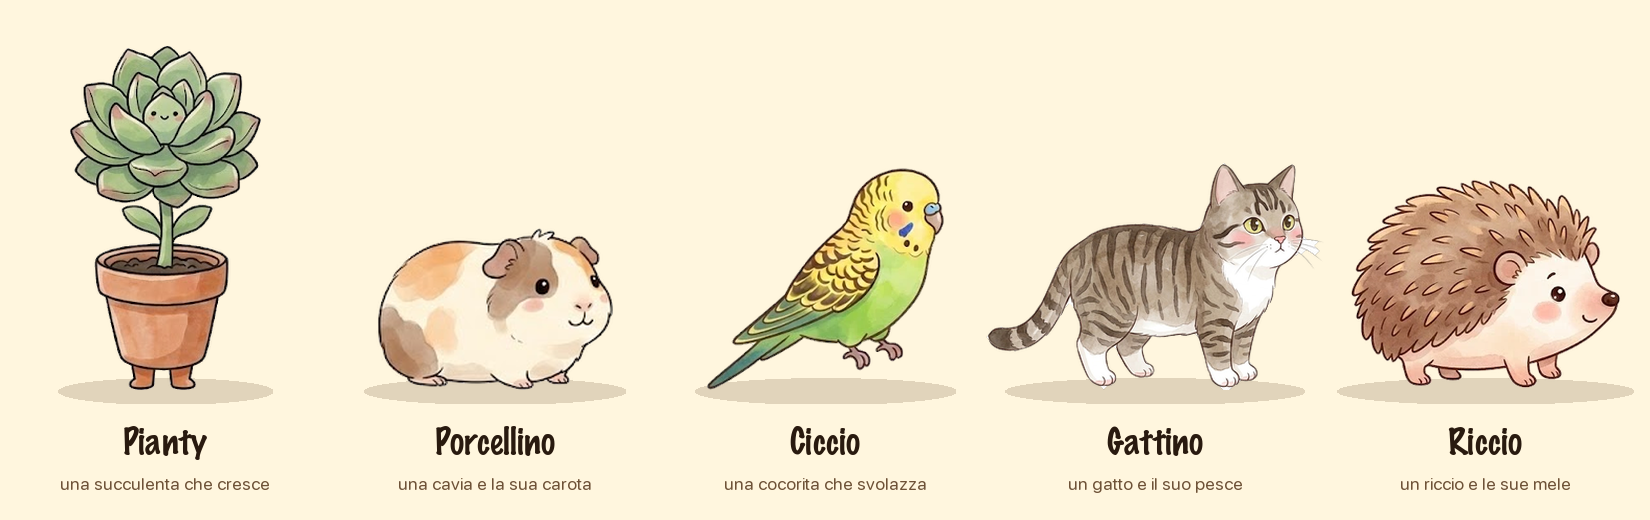
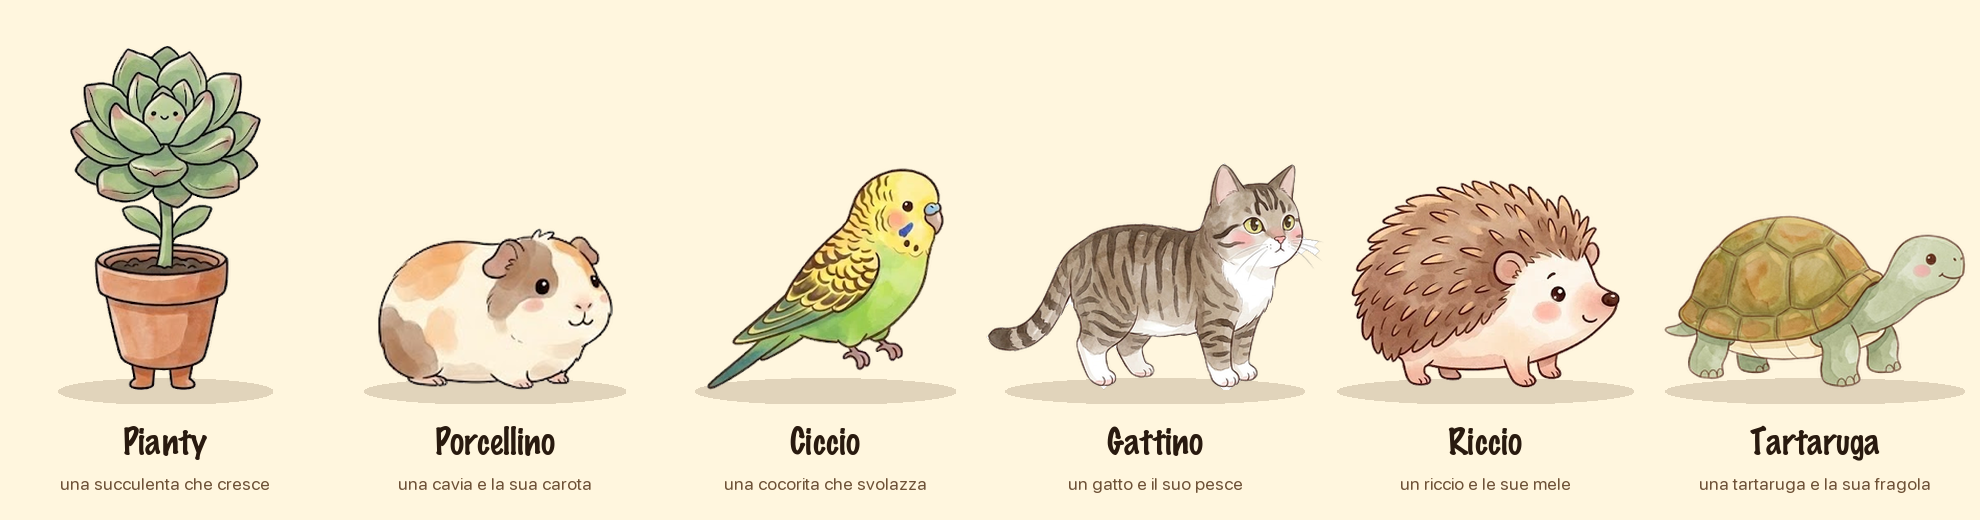
README e guida: le immagini nuove (Tartaruga, statistiche, sei isole, album, giro guidato)
Compagni e frasi con la Tartaruga; le statistiche di oggi, settimana, mese e
anno disegnate dalla finestra vera (nuovo banco render-statistiche, con dati
inventati); il mondo di sei isole; l'album con le figurine nuove e la sezione
Scene; il giro guidato al passo del giardino (modo «giro» del banco della
scheda). Nella guida l'elenco dei compagni e le soglie di sblocco aggiornati.
Tolta statistiche-sessioni.png, non più usata.

diff --git a/tools/banchi/render-statistiche/main.swift b/tools/banchi/render-statistiche/main.swift
@@ -1,0 +1,86 @@
+// Disegna fuori schermo la finestra delle statistiche vera dell'app (DashboardView) in un PNG, con un anno di sessioni inventate in una cartella
+// temporanea (i dati veri non si toccano), per le immagini della guida e del README.
+// Si lancia da tools/banchi/render-statistiche.sh: render <cartella dei dati> <file.png> <oggi|settimana|mese|anno> [materia scelta] [x y del mouse]
+import AppKit
+
+@main
+struct Render {
+    static func main() {
+        _ = NSApplication.shared
+        let args = CommandLine.arguments
+        let data = URL(fileURLWithPath: args[1])
+        let out = args[2]
+        let kind: PeriodKind = ["oggi": .day, "settimana": .week, "mese": .month, "anno": .year][args[3]] ?? .week
+        let chosen = args.count > 4 && !args[4].isEmpty ? args[4] : nil
+        let mouse = args.count > 6 ? NSPoint(x: Double(args[5])!, y: Double(args[6])!) : nil
+
+        var calendar = StudyPeriod.calendar()
+        calendar.timeZone = .current
+        // «adesso»: un venerdì sera di novembre
+        let now = calendar.date(from: DateComponents(year: 2026, month: 11, day: 13, hour: 19, minute: 30))!
+        let log = SessionLog(directory: data, now: { now })
+        if log.sessions.isEmpty { fill(log, until: now, calendar: calendar) }
+
+        let view = DashboardView(log: log, now: { now })
+        view.select(kind)
+        if let chosen { view.chooseSubject(chosen) }
+        if let mouse { view.pageHovered(at: mouse) }
+        view.layoutSubtreeIfNeeded()
+        let rep = view.bitmapImageRepForCachingDisplay(in: view.bounds)!
+        view.cacheDisplay(in: view.bounds, to: rep)
+        try! rep.representation(using: .png, properties: [:])!.write(to: URL(fileURLWithPath: out))
+        print(args[3], view.bounds.size, rep.pixelsWide, "×", rep.pixelsHigh)
+    }
+
+    /// Un anno di studio inventato, sempre uguale (un generatore con il seme fisso): più fitto in autunno, con qualche giorno di vacanza.
+    static func fill(_ log: SessionLog, until now: Date, calendar: Calendar) {
+        var rng = Seeded(seed: 7)
+        let subjects = ["Anatomia", "Fisiologia", "Biochimica", "Istologia"]
+        let weights = [5, 4, 3, 1]
+        let today = calendar.startOfDay(for: now)
+        let first = calendar.date(from: DateComponents(year: 2026, month: 1, day: 7))!
+        var day = first
+        while day <= today {
+            let month = calendar.component(.month, from: day)
+            let weekday = calendar.component(.weekday, from: day)   // 1 = domenica
+            let isToday = day == today
+            let busy = month >= 9 ? 0.86 : (month == 8 ? 0.15 : 0.62)
+            let weekend = weekday == 1 || weekday == 7
+            if isToday || Double.random(in: 0..<1, using: &rng) < (weekend ? busy * 0.35 : busy) {
+                let count = isToday ? 3 : Int.random(in: 1...(month >= 9 ? 5 : 3), using: &rng)
+                var start = calendar.date(byAdding: .minute, value: Int.random(in: 8 * 60 + 30...10 * 60, using: &rng), to: day)!
+                for _ in 0..<count {
+                    let roll = Int.random(in: 0..<weights.reduce(0, +), using: &rng)
+                    var acc = 0
+                    let subject = subjects[weights.firstIndex { acc += $0; return roll < acc }!]
+                    let planned = [30, 50, 50][Int.random(in: 0..<3, using: &rng)]
+                    let completed = Double.random(in: 0..<1, using: &rng) < 0.9
+                    let seconds = completed ? planned * 60 : Int.random(in: 10...(planned - 5), using: &rng) * 60
+                    if isToday && start.addingTimeInterval(Double(seconds)) > now { break }
+                    if let session = log.add(start: start, seconds: seconds, plannedMinutes: planned, completed: completed, subject: subject) {
+                        let hour = calendar.component(.hour, from: start)
+                        let good = subject == "Anatomia" || hour < 13 ? 0.75 : 0.45
+                        let r = Double.random(in: 0..<1, using: &rng)
+                        let rating: FocusRating? = r < good ? .good : (r < good + 0.2 ? .soso : (r < 0.97 ? .poor : nil))
+                        log.setReflection(id: session.id, rating: rating, note: nil)
+                    }
+                    start = start.addingTimeInterval(Double(seconds + Int.random(in: 10...70, using: &rng) * 60))
+                }
+            }
+            day = calendar.date(byAdding: .day, value: 1, to: day)!
+        }
+    }
+}
+
+/// Un generatore pseudo-casuale con il seme fisso (SplitMix64): le immagini vengono uguali ogni volta.
+struct Seeded: RandomNumberGenerator {
+    var state: UInt64
+    init(seed: UInt64) { state = seed }
+    mutating func next() -> UInt64 {
+        state &+= 0x9E37_79B9_7F4A_7C15
+        var z = state
+        z = (z ^ (z >> 30)) &* 0xBF58_476D_1CE4_E5B9
+        z = (z ^ (z >> 27)) &* 0x94D0_49BB_1331_11EB
+        return z ^ (z >> 31)
+    }
+}

diff --git a/tools/banchi/render-scheda/main.swift b/tools/banchi/render-scheda/main.swift
@@ -1,5 +1,6 @@
 // Disegna fuori schermo la scheda del menu vera dell'app (MenuCardView) in un PNG, con dati inventati, per le immagini del README.
-// Si lancia da tools/banchi/render-scheda.sh: render <file.png> [riposo|focus] [compagno]
+// Si lancia da tools/banchi/render-scheda.sh: render <file.png> [riposo|focus|giro] [compagno]
+// «giro»: la scheda a riposo con il velo del giro guidato sul giardino, e accanto (giro-fumetto.png) il fumetto di quel passo; in giro.txt la parte illuminata.
 import AppKit
 
 @main
@@ -34,6 +35,25 @@ struct Render {
         view.layoutSubtreeIfNeeded()
         let size = view.frame.size
         view.frame = NSRect(origin: .zero, size: size)
+        let touring = args.count > 2 && args[2] == "giro"
+        if touring, let index = GuidedTour.steps.firstIndex(where: { $0.section == .garden }) {
+            view.layoutSubtreeIfNeeded()
+            view.setSpotlight(.garden, active: true)
+            let step = GuidedTour.steps[index]
+            let tip = TourTipView(text: step.text, count: "\(index + 1) di \(GuidedTour.steps.count)", next: "Avanti")
+            tip.tailOnRight = true
+            tip.tailY = 30
+            tip.layoutSubtreeIfNeeded()
+            tip.frame = NSRect(origin: .zero, size: tip.fittingSize)
+            tip.layoutSubtreeIfNeeded()
+            let folder = (out as NSString).deletingLastPathComponent
+            let tipRep = tip.bitmapImageRepForCachingDisplay(in: tip.bounds)!
+            tip.cacheDisplay(in: tip.bounds, to: tipRep)
+            try! tipRep.representation(using: .png, properties: [:])!.write(to: URL(fileURLWithPath: folder + "/giro-fumetto.png"))
+            let spot = view.sections[.garden] ?? .zero
+            try! "\(spot.minX) \(spot.minY) \(spot.width) \(spot.height)\n".write(toFile: folder + "/giro.txt", atomically: true, encoding: .utf8)
+            print("giro: fumetto", tip.frame.size, "giardino", spot)
+        }
         let rep = view.bitmapImageRepForCachingDisplay(in: view.bounds)!
         view.cacheDisplay(in: view.bounds, to: rep)
         try! rep.representation(using: .png, properties: [:])!.write(to: URL(fileURLWithPath: out))

diff --git a/tools/compone_readme.py b/tools/compone_readme.py
@@ -1,5 +1,5 @@
 #!/usr/bin/env python3
-"""Compone le immagini del README fatte con i disegni dei compagni e con i fumetti veri dell'app: docs/images/scrivania.png, compagni.png, frasi.png e crescita.png
+"""Compone le immagini del README fatte con i disegni dei compagni e con i fumetti veri dell'app: docs/images/scrivania.png, menu-schermata.png, giro.png, compagni.png, frasi.png e crescita.png
 
     tools/compone-readme.sh        (disegna prima i fumetti e l'orologio dell'app in build/readme/, poi chiama questo script)
     python3 tools/compone_readme.py   (solo la composizione, se i fumetti in build/readme/ ci sono già)
@@ -37,6 +37,7 @@ PETS = [
     ("Ciccio", "assets/ciccio/frame1.png", 112 / 321, "una cocorita che svolazza"),
     ("Gattino", "assets/gattino/frame1.png", 144 / 360, "un gatto e il suo pesce"),
     ("Riccio", "assets/riccio/frame1.png", 154 / 405, "un riccio e le sue mele"),
+    ("Tartaruga", "assets/tartaruga/frame1.png", 144 / 328, "una tartaruga e la sua fragola"),
 ]
 
 
@@ -280,11 +281,64 @@ def menu_schermata():
     print("menu-schermata.png", scene.size)
 
 
+def giro():
+    """Il giro guidato al passo del giardino, come sullo schermo: la scheda con il velo tranne il giardino (tools/banchi/render-scheda.sh, modo «giro»),
+    il fumetto del giro a sinistra con la punta sul giardino e sopra l'immagine di com'è fatto (assets/benvenuto/giardino.png), come in GuidedTour.show."""
+    from PIL import ImageFilter, ImageOps
+    W, H = 1200, 960
+    ppt = 1.1
+    scene = desk_scene(W, H).convert("RGBA")
+    cat = Image.open("assets/gattino/frame1.png").convert("RGBA")
+    k = (144 / 360) * ppt
+    cat = ImageOps.mirror(cat.resize((round(cat.width * k), round(cat.height * k)), Image.LANCZOS))
+    pet_left, window_bottom = W - 70 - cat.width, 876
+    ground = round(0.0949 * 274 * k)
+    glow = Image.new("RGBA", (cat.width + 160, 120), (0, 0, 0, 0))
+    ImageDraw.Draw(glow).ellipse((80, 34, 80 + cat.width - 30, 62), fill=(60, 40, 40, 70))
+    scene.alpha_composite(glow.filter(ImageFilter.GaussianBlur(5)), (pet_left - 80 + 12, window_bottom - ground - 46))
+    scene.alpha_composite(cat, (pet_left, window_bottom - cat.height))
+    card = Image.open("build/readme/scheda-giro.png").convert("RGBA")
+    card = card.resize((round(card.width * ppt / 2), round(card.height * ppt / 2)), Image.LANCZOS)
+    x, y = pet_left - round(10 * ppt) - card.width, window_bottom - card.height
+    shadow = Image.new("RGBA", scene.size, (0, 0, 0, 0))
+    ImageDraw.Draw(shadow).rounded_rectangle((x, y + 14, x + card.width, y + card.height + 14), 28, fill=(60, 40, 40, 110))
+    scene.alpha_composite(shadow.filter(ImageFilter.GaussianBlur(20)))
+    scene.alpha_composite(card, (x, y))
+    # il fumetto: a sinistra della scheda (4 punti), con la punta a metà del giardino (30 punti sotto il suo bordo alto)
+    spot_y, spot_h = [float(v) for v in open("build/readme/giro.txt").read().split()][1::2]
+    tip = Image.open("build/readme/giro-fumetto.png").convert("RGBA")
+    tip = tip.resize((round(tip.width * ppt / 2), round(tip.height * ppt / 2)), Image.LANCZOS)
+    tip_x = x - round(4 * ppt) - tip.width
+    tip_y = round(y + (spot_y + spot_h / 2 - 30) * ppt)
+    tip_shadow = Image.new("RGBA", scene.size, (0, 0, 0, 0))
+    ImageDraw.Draw(tip_shadow).rounded_rectangle((tip_x + 4, tip_y + 8, tip_x + tip.width - 14, tip_y + tip.height + 6), 18, fill=(40, 30, 20, 70))
+    scene.alpha_composite(tip_shadow.filter(ImageFilter.GaussianBlur(10)))
+    scene.alpha_composite(tip, (tip_x, tip_y))
+    # l'immagine di com'è fatto: sopra il fumetto, larga al massimo 420 punti, angoli tondi e ombra
+    peek = Image.open("assets/benvenuto/giardino.png").convert("RGBA")
+    width = round(min(420 * ppt, tip_x + tip.width - 10 * ppt - 8 * ppt))
+    peek = peek.resize((width, round(width * peek.height / peek.width)), Image.LANCZOS)
+    mask = Image.new("L", peek.size, 0)
+    ImageDraw.Draw(mask).rounded_rectangle((0, 0, peek.width - 1, peek.height - 1), round(14 * ppt), fill=255)
+    peek.putalpha(mask)
+    px = max(tip_x + tip.width - round(10 * ppt) - peek.width, round(8 * ppt))
+    py = tip_y - round(12 * ppt) - peek.height
+    if py < 40:
+        py = tip_y + tip.height + round(12 * ppt)
+    peek_shadow = Image.new("RGBA", scene.size, (0, 0, 0, 0))
+    ImageDraw.Draw(peek_shadow).rounded_rectangle((px, py + 10, px + peek.width, py + peek.height + 10), 18, fill=(40, 30, 20, 90))
+    scene.alpha_composite(peek_shadow.filter(ImageFilter.GaussianBlur(16)))
+    scene.alpha_composite(peek, (px, py))
+    scene.convert("RGB").save("docs/images/giro.png", optimize=True)
+    print("giro.png", scene.size)
+
+
 FRASI = [
     ("Pianty", "assets/pianty/stage5_1.png", 84 / 208, 2),
     ("Porcellino", "assets/porcellino/frame1.png", 118 / 236, 3),
     ("Gattino", "assets/gattino/frame1.png", 144 / 360, 4),
     ("Riccio", "assets/riccio/frame1.png", 154 / 405, 5),
+    ("Tartaruga", "assets/tartaruga/frame1.png", 144 / 328, 6),
 ]
 
 
@@ -316,9 +370,36 @@ def frasi():
     print("frasi.png", sheet.size)
 
 
+def finestra_statistiche(name):
+    """La finestra delle statistiche disegnata da tools/banchi/render-statistiche.sh (build/readme/<name>.png), con gli angoli tondi e l'ombra, su un fondo chiaro."""
+    from PIL import ImageFilter
+    view = Image.open(f"build/readme/{name}.png").convert("RGBA")
+    margin, radius = 88, 40
+    mask = Image.new("L", view.size, 0)
+    ImageDraw.Draw(mask).rounded_rectangle((0, 0, view.width - 1, view.height - 1), radius, fill=255)
+    view.putalpha(mask)
+    sheet = Image.new("RGBA", (view.width + 2 * margin, view.height + 2 * margin), (235, 227, 214, 255))
+    shadow = Image.new("RGBA", sheet.size, (0, 0, 0, 0))
+    ImageDraw.Draw(shadow).rounded_rectangle((margin, margin + 14, margin + view.width, margin + view.height + 14), radius, fill=(70, 50, 30, 80))
+    sheet.alpha_composite(shadow.filter(ImageFilter.GaussianBlur(22)))
+    sheet.alpha_composite(view, (margin, margin))
+    sheet.convert("RGB").save(f"docs/images/{name}.png", optimize=True)
+    print(f"{name}.png", sheet.size)
+
+
+def statistiche():
+    for name in ("statistiche-oggi", "statistiche-settimana", "statistiche-mese", "statistiche-anno"):
+        finestra_statistiche(name)
+
+
 if __name__ == "__main__":
+    import sys
+    if sys.argv[1:] == ["statistiche"]:
+        statistiche()
+        sys.exit()
     scrivania()
     menu_schermata()
+    giro()
     compagni()
     frasi()
     crescita()

diff --git a/docs/GUIDA.md b/docs/GUIDA.md
@@ -12,7 +12,7 @@
 </p>
 
 <p align="center">
-  <img src="images/compagni.png" width="720" alt="Pianty, Porcellino, Ciccio e il Gattino">
+  <img src="images/compagni.png" width="720" alt="Pianty, Porcellino, Ciccio, Gattino, Riccio e Tartaruga">
 </p>
 
 ## I compagni
@@ -22,11 +22,13 @@
 - **Porcellino**, una cavia che cammina per lo schermo, mangia la carota, fa i pisolini e saltella, con frasi sue.
 - **Ciccio**, una cocorita che cammina e ogni tanto sbatte le ali, con frasi sue.
 - **Gattino**, un gatto soriano che cammina per lo schermo, mangia un pesce, dorme e ogni tanto si lecca la zampa, con frasi sue.
+- **Riccio**, un riccio tondo che cammina, mangia uno spicchio di mela, dorme e ogni tanto si arrotola a palla, con frasi sue.
+- **Tartaruga**, una tartaruga di terra che cammina piano, mangia una fragola, dorme e ogni tanto si ritira nel guscio, con frasi sue.
 
 ### Si sbloccano studiando
 
 Alla prima apertura scegli il tuo compagno, ed è libero. Gli altri si guadagnano studiando: il **secondo a 20
-focus**, il **terzo a 50** e il **quarto a 100**, dove un «focus» sono 50 minuti di studio (contano
+focus**, il **terzo a 50**, poi uno ogni altri 50 (**100**, **150** e **200** per il sesto), dove un «focus» sono 50 minuti di studio (contano
 tutti i minuti, anche quelli dei focus interrotti, e un timer da 5 minuti non sblocca niente più in fretta). Nella
 scheda del menu c'è una riga **Avatar** che apre una pagina a parte: i compagni stanno in fila sul palco, quello scelto grande al
 centro e i vicini più piccoli ai lati, e si scorre da uno all'altro (trascinando, con due dita sul trackpad, toccando un vicino o
@@ -63,13 +65,13 @@ inganna: così a fine settimana vedi anche *quando* rendi meglio.
   <img src="images/com-e-andata.png" width="420" alt="Com'è andata?">
 </p>
 
-**Statistiche**: un riepilogo calmo (il totale in grande, le materie in una barra, i giorni di fila e «Com'è andata»)
-e, per un giorno, subito sotto le sessioni con la nota e la faccia di ogni focus (per la settimana e il mese le apre «Mostra le sessioni»).
+**Statistiche**: un riepilogo calmo (il totale in grande, l'andamento giorno per giorno, le ore di ogni materia, i giorni di fila e
+«Com'è andata») e, per un giorno, subito sotto le sessioni con la nota e la faccia di ogni focus (per la settimana e il mese le apre «Mostra le sessioni»).
 
 <p align="center">
-  <img src="images/statistiche-settimana.png" width="360" alt="Statistiche della settimana">
+  <img src="images/statistiche-settimana.png" width="360" alt="Statistiche della settimana: l'andamento per giorno e le ore per materia">
   &nbsp;&nbsp;
-  <img src="images/statistiche-sessioni.png" width="360" alt="Le sessioni di un giorno">
+  <img src="images/statistiche-oggi.png" width="360" alt="Statistiche di un giorno, con le sue sessioni">
 </p>
 
 **Il giardino e l'album**: ogni focus completato (almeno 20 minuti di studio) può regalarti una figurina, che appare
@@ -271,6 +273,10 @@ studio.»). Per il giardino, le statistiche e l'album, sopra il fumetto compare 
 Finché il giro va la scheda non risponde ai clic e non si chiude con un clic fuori; *Salta* o Esc lo chiudono («Il giro si può
 rivedere dal menu.»). Si rifà quando si vuole da **Fai il giro** nel menu (mai durante un focus o una pausa). Il giro non scrive niente.
 
+<p align="center">
+  <img src="images/giro.png" width="760" alt="Il giro guidato al passo del giardino: la scheda scurita tranne il pulsante Giardino, il fumetto con «Salta», «3 di 8» e «Avanti», e sopra l'immagine del giardino">
+</p>
+
 **Le prime volte.** Alla fine di un focus, finché non si è trovata nessuna figurina (a parte quelle dell'inizio), la frase dice
 «Mancano 35 minuti di studio alla prima figurina.»; quando arriva la prima, «Nuova figurina: Lavanda (n. 6). La trovi nell'album e
 puoi metterla nel giardino.». Nel giardino, accanto alla pillola *Da mettere*, un fumetto dice «Trascina le cose da «Da mettere»
@@ -350,6 +356,12 @@ I giorni che devono ancora arrivare sono tratteggiati, e oggi ha un contorno. Pa
 Sotto la mappa, tre numeri (la serie di giorni di fila più lunga dell'anno, il giorno più forte, il mese migliore), **le ore di ogni materia** («Per materia»: una riga per materia, dalla più studiata, con una barra del suo colore lunga in proporzione e il tempo, «Anatomia 42 h 30») e **l'andamento per settimana**: barre con le ore di ogni settimana,
 di tutte le materie o di una sola (le materie più studiate dell'anno, scelte con un clic). L'andamento si mostra da quattro settimane con studio in su, e le materie solo se sono almeno due. Si ricava tutto dal registro: nessun dato nuovo.
 
+<p align="center">
+  <img src="images/statistiche-mese.png" width="360" alt="Statistiche del mese: l'andamento per giorno, le ore per materia, i giorni di fila e come è andata">
+  &nbsp;&nbsp;
+  <img src="images/statistiche-anno.png" width="360" alt="Statistiche dell'anno: la mappa dei giorni, tre numeri, le ore per materia e l'andamento per settimana">
+</p>
+
 Le regole di calcolo hanno le loro prove: `./tests/run.sh` (compila `SessionLog.swift` da solo e controlla
 periodi, totali, giorni di fila e serie ghiacciata, regali di fine focus e album, copie nel prato, recupero, file
 rovinato, migrazione, materie unite, copie di sicurezza, fuso orario…).
@@ -422,7 +434,7 @@ subito, ma **al buio, con un lucchetto**, senza nome (solo «???») e con la scr
 il compagno (`GardenWorld` e `GardenIslands`, in `GardenGrid.swift`).
 
 <p align="center">
-  <img src="images/mondo.png" width="760" alt="Il mondo delle isole, unite da ponti, ognuna con la sua casa (nell'immagine sono quattro: il Riccio e la Tartaruga sono arrivati dopo)">
+  <img src="images/mondo.png" width="760" alt="Il mondo delle sei isole, unite da ponti, ognuna con la sua casa">
 </p>
 
 - **Ognuna è diversa.** Ha la sua tinta (verde fresco per Pianty, paglia per Porcellino, verde acqua per Ciccio, blu-lilla
@@ -649,6 +661,10 @@ Pianty si fa annaffiare, si pianta nell'aiuola, prende il sole sulla sdraio e gu
 da `tools/ritagli/cutout_interazioni.py`); chi dorme fa le «z», nel bagnetto ci sono gli schizzi. Dopo un po' ricompare lì accanto. La prima volta che vedi una scena, il giardino la festeggia («Nuova scena nell'album») e la
 scena entra nell'album, nella sezione **Scene**: una pagina per compagno, con le sue quattro scene. Quelle viste sono fotografie con la didascalia; le altre
 sono sagome con il nome della cosa che serve («??? · Panchina»), e toccandole l'album dice cosa fare (metti quella cosa sull'isola del compagno e aspetta).
+
+<p align="center">
+  <img src="images/album-scene.png" width="760" alt="La sezione Scene dell'album: le pagine di Pianty e Porcellino, con le scene viste e le sagome di quelle che mancano">
+</p>
 
 **Ciccio durante un focus** sta fermo e prende il posto del suo nido (`focusGrowthResources` in `Pet.swift`,
 le immagini `garden_ciccio_<1..5>.png`): parte dall'uovo e, con il tempo, passa al guscio

diff --git a/README.md b/README.md
@@ -27,17 +27,17 @@
 ## Scegli chi ti fa compagnia
 
 <p align="center">
-  <img src="docs/images/compagni.png" width="900" alt="Pianty, Porcellino, Ciccio, Gattino e Riccio">
+  <img src="docs/images/compagni.png" width="900" alt="Pianty, Porcellino, Ciccio, Gattino, Riccio e Tartaruga">
 </p>
 
-Cinque amici, ognuno con il suo carattere e le sue frasi. Il primo lo scegli tu, gli altri si sbloccano studiando.
+Sei amici, ognuno con il suo carattere e le sue frasi. Il primo lo scegli tu, gli altri si sbloccano studiando.
 
 <br>
 
 ## Ti dice due parole quando serve
 
 <p align="center">
-  <img src="docs/images/frasi.png" width="900" alt="Pianty, Porcellino, Gattino e Riccio, ognuno con una frase nel fumetto">
+  <img src="docs/images/frasi.png" width="900" alt="Pianty, Porcellino, Gattino, Riccio e Tartaruga, ognuno con una frase nel fumetto">
 </p>
 
 Ogni tanto, senza distrarti: un incoraggiamento, un «respira», un «bevi un po' d'acqua». Puoi scrivere le tue.
@@ -51,6 +51,16 @@ Ogni tanto, senza distrarti: un incoraggiamento, un «respira», un «bevi un po
 </p>
 
 Scegli i minuti, scrivi cosa studi, premi inizio. Se vuoi, una pausa lunga ogni quattro focus.
+
+<br>
+
+## La prima volta, un giro
+
+<p align="center">
+  <img src="docs/images/giro.png" width="800" alt="Il giro guidato: la scheda scurita tranne il pulsante Giardino, con un fumetto che lo spiega e l'immagine del giardino">
+</p>
+
+Alla prima apertura il compagno ti chiama: cliccalo e ti mostra la scheda una parte alla volta, il timer, il giardino, le statistiche, l'album. Si rifà quando vuoi dal menu.
 
 <br>
 
@@ -72,16 +82,20 @@ Scegli i minuti, scrivi cosa studi, premi inizio. Se vuoi, una pausa lunga ogni 
     <td><img src="docs/images/mondo.png" alt="Le isole, unite da ponti"></td>
   </tr>
   <tr>
-    <td colspan="2" align="center"><img src="docs/images/album.png" width="560" alt="L'album delle figurine, aperto su una doppia pagina"></td>
+    <td><img src="docs/images/album.png" alt="L'album delle figurine, aperto su una doppia pagina"></td>
+    <td><img src="docs/images/album-scene.png" alt="Le scene dei compagni nell'album: quelle viste e le sagome di quelle che mancano"></td>
   </tr>
 </table>
 
-**Sai dove va il tuo tempo.** Statistiche per materia, giorni di fila, e una lista di cose da fare con la scadenza.
+**Sai dove va il tuo tempo.** L'andamento giorno per giorno, le ore di ogni materia, l'anno intero a colpo d'occhio, e una lista di cose da fare con la scadenza.
 
 <table align="center">
   <tr>
-    <td><img src="docs/images/statistiche-settimana.png" alt="Statistiche della settimana"></td>
-    <td><img src="docs/images/da-fare.png" alt="La lista delle cose da fare"></td>
+    <td><img src="docs/images/statistiche-settimana.png" alt="Statistiche della settimana: l'andamento per giorno e le ore per materia"></td>
+    <td><img src="docs/images/statistiche-anno.png" alt="Statistiche dell'anno: un quadratino per giorno, le ore per materia e l'andamento per settimana"></td>
+  </tr>
+  <tr>
+    <td colspan="2" align="center"><img src="docs/images/da-fare.png" width="560" alt="La lista delle cose da fare"></td>
   </tr>
 </table>
 
